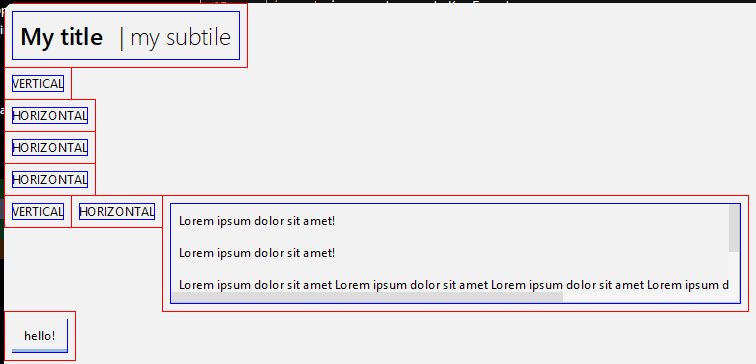
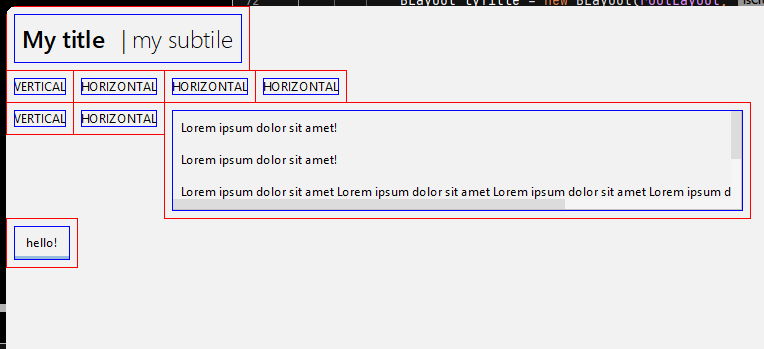
fixed horizontal bug updated image

diff --git a/src/main/java/com/osiris/betterlayout/BLayout.java b/src/main/java/com/osiris/betterlayout/BLayout.java
@@ -141,7 +141,7 @@ public class BLayout extends JPanel {
      */
     public BLayout addH(Component... components) {
         for (Component component : components) {
-            addV(component);
+            addH(component);
         }
         return this;
     }
